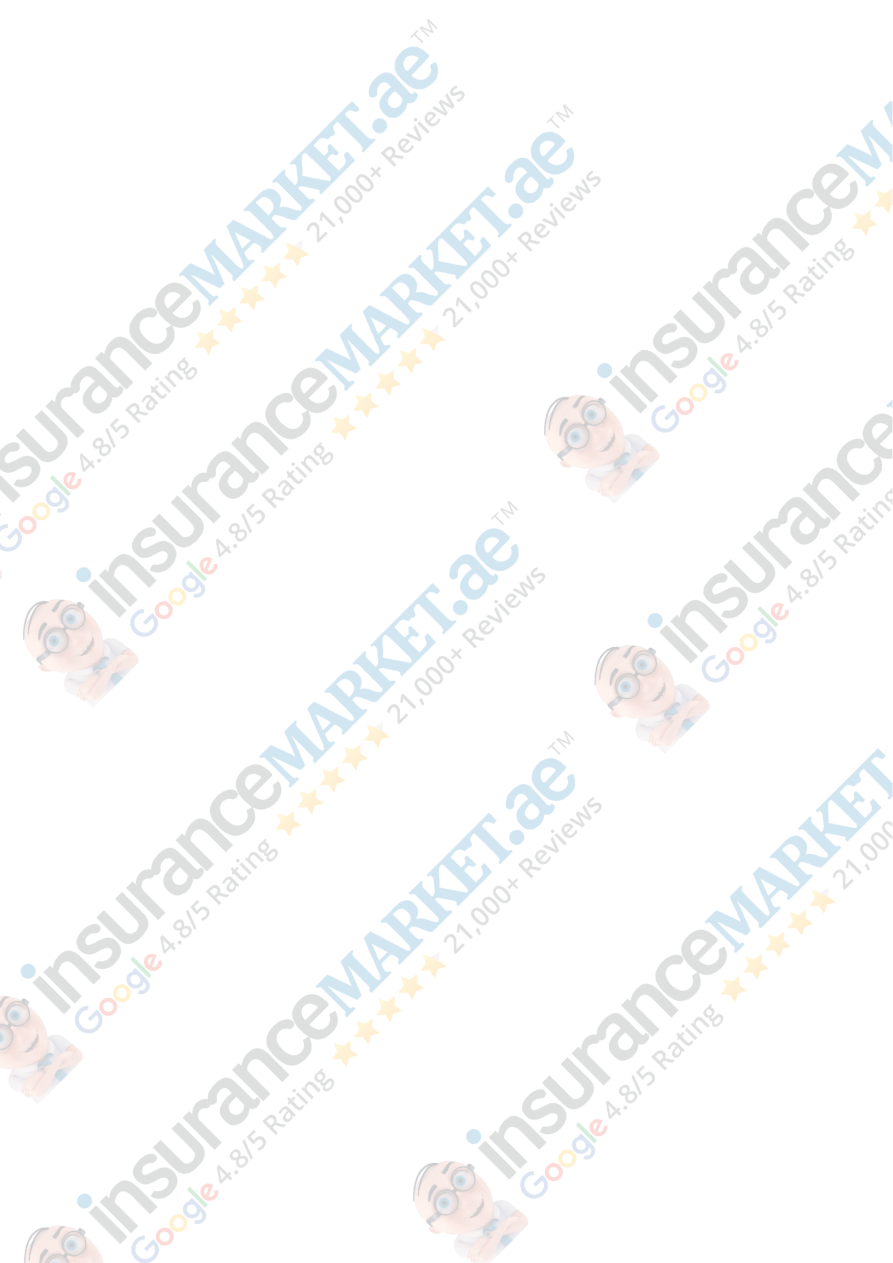
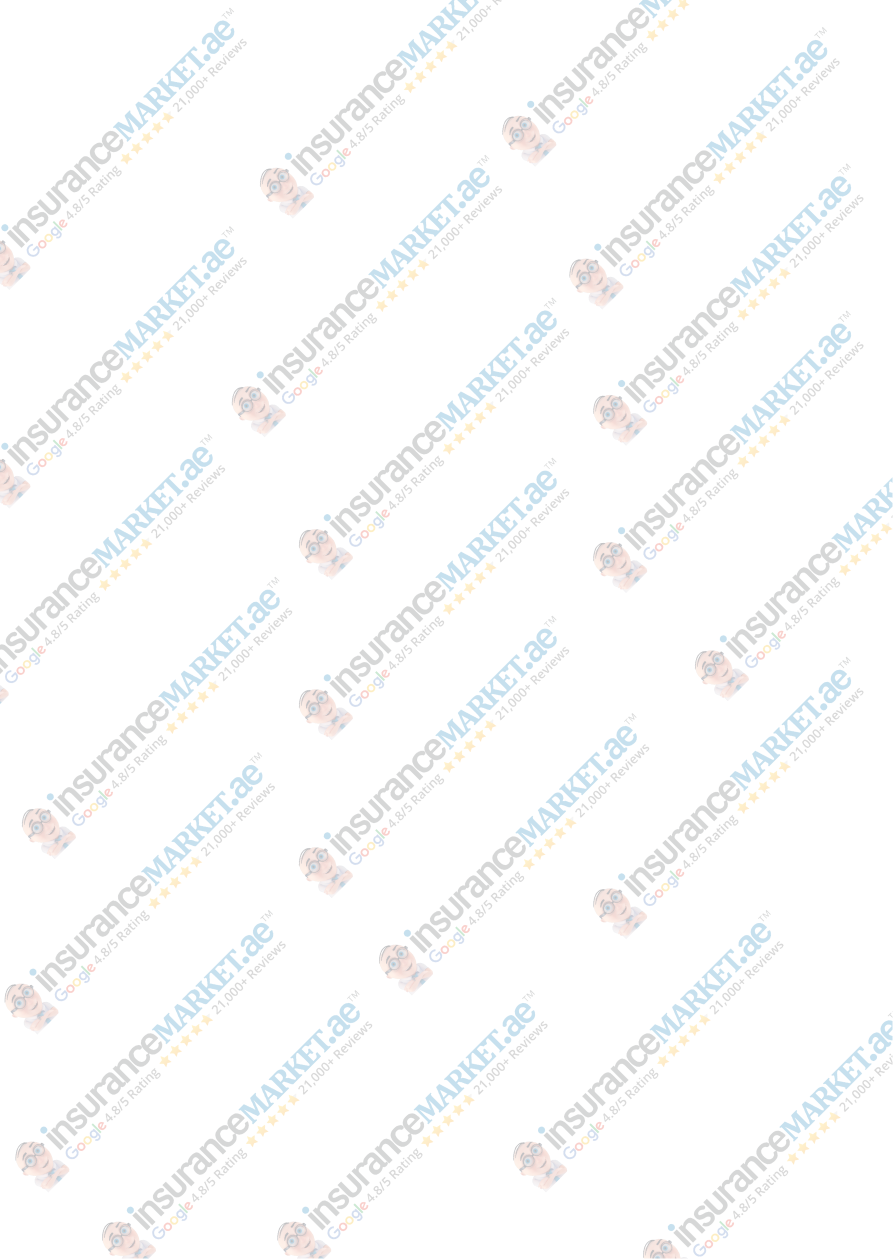
double paged pdf layout

diff --git a/app/Services/QuoteDocumentService.php b/app/Services/QuoteDocumentService.php
@@ -2,6 +2,7 @@
 
 namespace App\Services;
 
+use setasign\Fpdi\Fpdi;
 use App\Enums\RolesEnum;
 use App\Enums\quoteTypeCode;
 use App\Models\DocumentType;
@@ -245,16 +246,42 @@ class QuoteDocumentService extends BaseService
     public function watermarkPdf($file, $docName, $data, $quote, $documentType, $originalName, $fileMimeType)
     {
         if (!file_exists(storage_path('/app/temp'))) {
-            mkdir(storage_path('/app/temp'), 0777, true);
+            mkdir(storage_path('/app/temp'), 0775, true);
         }
 
-        ImageWatermarker::input($file)
-            ->watermark(public_path('images/watermark1.png'))
-            ->output(storage_path('app/temp/' . $docName))
-            ->position(Position::MIDDLE_CENTER, 0, 0)
-            ->asBackground()
-            ->resolution(96)
-            ->save();
+        /**
+         * Please don't remove it for now, thanks
+         */
+
+        // ImageWatermarker::input($file)
+        //     ->watermark(public_path('images/watermark1.png'))
+        //     ->output(storage_path('app/temp/' . $docName))
+        //     ->position(Position::MIDDLE_LEFT, 0, 0)
+        //     ->asBackground()
+        //     ->resolution(96)
+        //     ->save();
+
+        $filePath = $file->storeAs('temp', $docName);
+        $outputPath = storage_path('app/temp/' . $docName);
+
+        $pdf = new Fpdi();
+        $pageCount = $pdf->setSourceFile(storage_path('app/' .$filePath));
+
+        $watermarkImagePath = public_path('images/watermark1.png');
+
+        for ($pageNo = 1; $pageNo <= $pageCount; $pageNo++) {
+            $templateId = $pdf->importPage($pageNo);
+            $size = $pdf->getTemplateSize($templateId);
+
+            $pdf->AddPage($size['orientation'], [$size['width'], $size['height']]);
+            // Add watermark
+            $pdf->Image($watermarkImagePath, 0, 0, $size['width'], $size['height'], '', '', '', false, 300, '', false, false, 0);
+
+            $pdf->useTemplate($templateId);
+        }
+
+        $pdf->Output($outputPath, 'F');
+
 
         return $this->storeWatermarkedMedia($docName, $data, $quote, $documentType, $originalName, $fileMimeType);
 
@@ -275,7 +302,7 @@ class QuoteDocumentService extends BaseService
     public function watermarkImage($file, $docName, $data, $quote, $documentType, $originalName, $fileMimeType)
     {
         if (!file_exists(storage_path('/app/temp'))) {
-            mkdir(storage_path('/app/temp'), 0777, true);
+            mkdir(storage_path('/app/temp'), 0775, true);
         }
 
         $manager = new ImageManager(new Driver());
@@ -334,7 +361,7 @@ class QuoteDocumentService extends BaseService
     public function watermarkWordDocs($fileOrBase64, $docName, $data, $quote, $documentType, $originalName, $fileMimeType)
     {
         if (!file_exists(storage_path('/app/temp'))) {
-            mkdir(storage_path('/app/temp'), 0777, true);
+            mkdir(storage_path('/app/temp'), 0775, true);
         }
 
         $tempFile = $fileOrBase64->move(storage_path('/app/temp'), $docName)->getRealPath();
